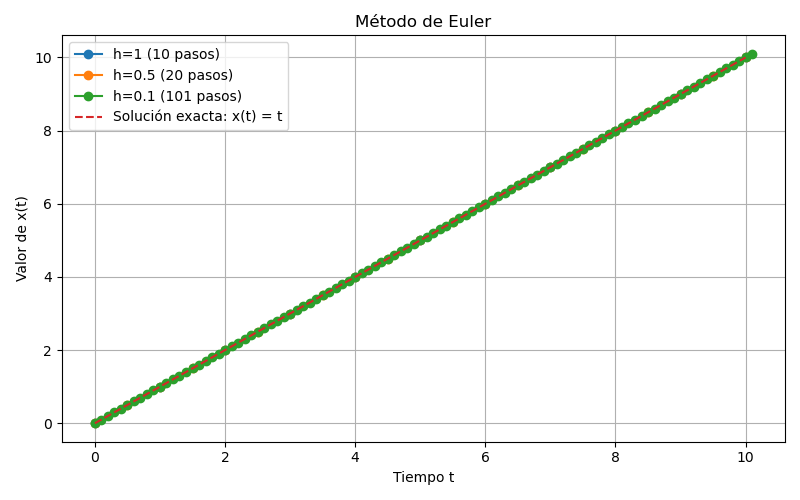
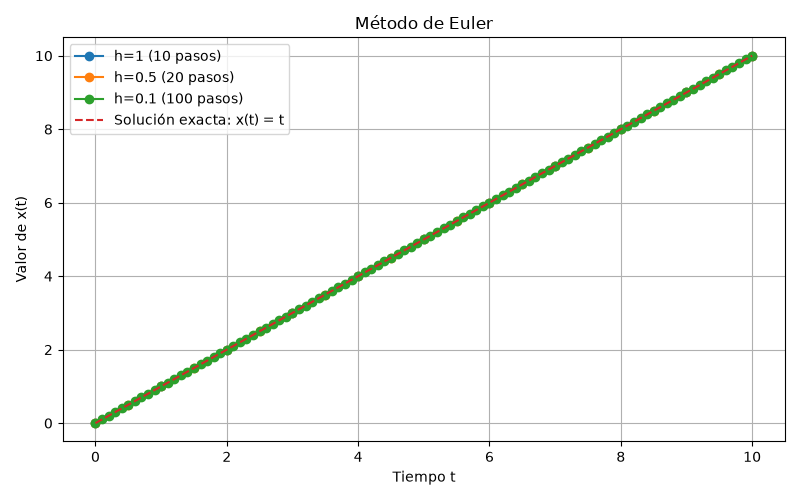
Arreglado el problema en main cambiando el importe de utils a graficos_utils

diff --git a/main.py b/main.py
@@ -5,10 +5,12 @@ Uso: python main.py
 """
 import runpy
 
-from utils import crear_carpeta_figuras
+from graficos_utils import crear_carpeta_figuras
 
 SECCIONES = [
     ('Sección 1: Metodo Euler', 'euler.py'),
+    ('Sección 4: Gestión de vulnerabilidades', 'gestion_vulnerabilidades.py'),
+    ('Sección 5: Modelo discreto', 'modelo_discreto.py'),
 ]
 
 def ejecutar_todo():
